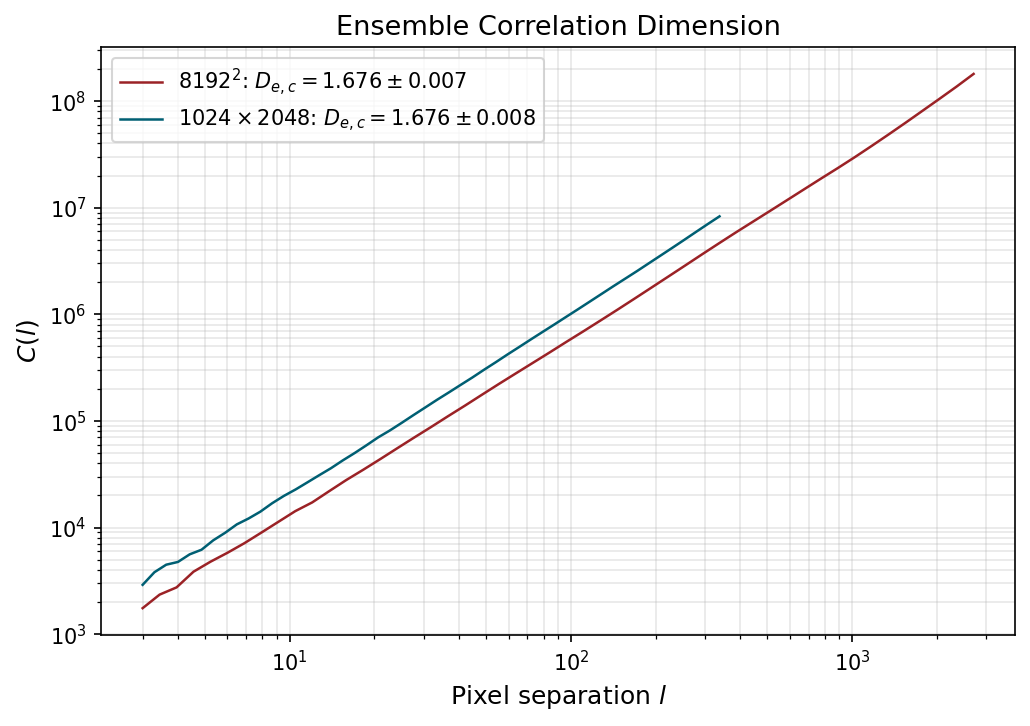
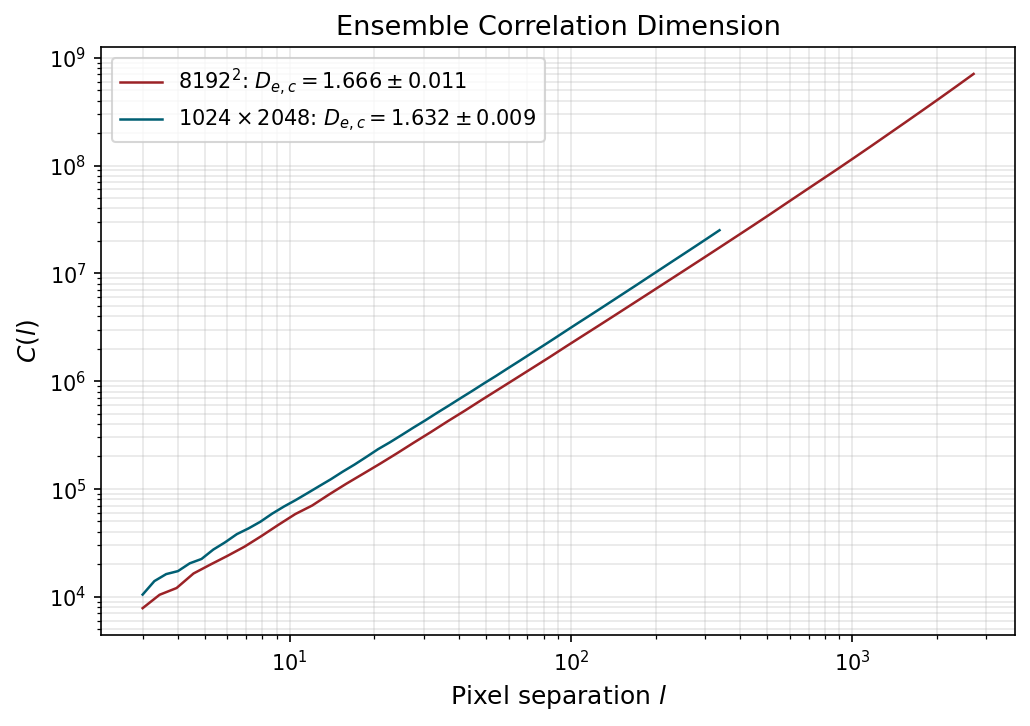
Switch to disk-persisted bool children, bump to 50 parents at C1=0.1
Reorganize the data pipeline so analysis reads bool child masks straight
from output/masks/ instead of rethresholding parents each run:

- scripts/produce_masks.py: new stage that thresholds each parent at its
  mean and writes the 4x8 grid of 1024x2048 bool children to disk (one
  parent held in memory at a time).
- analysis/load_masks.py: loads children from output/masks/, stitches
  parents on demand for the full-mask comparison branches.
- scripts/generate_fif.py: 30 -> 50 realizations, C1 0.05 -> 0.1.
- analysis/scaling_analysis.py: removed (continuous FIF power spectrum /
  structure function no longer of interest).
- README + figures refreshed for the new C1 and parent count; D_{e,c}
  estimates shift to 1.666 +/- 0.011 (full) and 1.632 +/- 0.009 (sub)
  as expected from the larger K(2) intermittency correction.

diff --git a/analysis/load_masks.py b/analysis/load_masks.py
@@ -1,27 +1,39 @@
 """
-Shared loader: reads the 30 FIF arrays from output/large/,
-thresholds at the mean to produce binary cloud masks,
-and optionally subsets into 4x8 MODIS-like scenes (1024x2048).
+Shared loader: reads bool child cloud masks from output/masks/ and
+exposes the original API used by the analysis scripts.
+
+Each child on disk is a 1024 x 2048 bool sub-scene. Full 8192^2 parent
+masks are reconstructed on demand by stitching each parent's 4 x 8 grid
+of children.
 """
 
 import numpy as np
 import os
 
-LARGE_DIR = os.path.join(os.path.dirname(__file__), "..", "output", "large")
-N_REALIZATIONS = 30
-N_ANALYSIS = 10  # number of parents to load for analysis
+MASKS_DIR = os.path.join(os.path.dirname(__file__), "..", "output", "masks")
+N_ANALYSIS = 50  # number of parents to load for analysis
+NROWS, NCOLS = 4, 8
 
 
 def load_large_masks(n=N_ANALYSIS):
-    """Load n full 8192^2 binary cloud masks (thresholded at mean)."""
+    """Load n full 8192^2 bool cloud masks (stitched from their children)."""
     masks = []
     for i in range(n):
-        arr = np.load(os.path.join(LARGE_DIR, f"fif_{i:03d}.npy"))
-        masks.append((arr > arr.mean()).astype(np.float64))
+        rows = [
+            np.concatenate(
+                [
+                    np.load(os.path.join(MASKS_DIR, f"child_{i:03d}_r{r}_c{c}.npy"))
+                    for c in range(NCOLS)
+                ],
+                axis=1,
+            )
+            for r in range(NROWS)
+        ]
+        masks.append(np.concatenate(rows, axis=0))
     return masks
 
 
-def subset_masks(mask, nrows=4, ncols=8):
+def subset_masks(mask, nrows=NROWS, ncols=NCOLS):
     """Split an 8192^2 mask into nrows x ncols sub-scenes (1024 x 2048)."""
     h, w = mask.shape
     sh, sw = h // nrows, w // ncols
@@ -33,8 +45,12 @@ def subset_masks(mask, nrows=4, ncols=8):
 
 
 def load_all_subscenes(n=N_ANALYSIS):
-    """Load n x 32 MODIS-like 1024x2048 sub-scenes."""
+    """Load all n x 32 MODIS-like 1024 x 2048 child sub-scenes directly."""
     scenes = []
-    for mask in load_large_masks(n):
-        scenes.extend(subset_masks(mask))
+    for i in range(n):
+        for r in range(NROWS):
+            for c in range(NCOLS):
+                scenes.append(
+                    np.load(os.path.join(MASKS_DIR, f"child_{i:03d}_r{r}_c{c}.npy"))
+                )
     return scenes

diff --git a/scripts/produce_masks.py b/scripts/produce_masks.py
@@ -1,0 +1,60 @@
+"""
+Produce bool child cloud masks from the large FIF simulations.
+
+For each parent fif_NNN.npy in output/large/:
+  - threshold at the parent's mean (cloudy where value > mean)
+  - split into 4 x 8 = 32 sub-scenes of shape 1024 x 2048
+  - save each sub-scene as a bool .npy in output/masks/
+
+One parent is held in memory at a time.
+"""
+
+import numpy as np
+import os
+import time
+
+LARGE_DIR = os.path.join(os.path.dirname(__file__), "..", "output", "large")
+MASKS_DIR = os.path.join(os.path.dirname(__file__), "..", "output", "masks")
+N_REALIZATIONS = 50
+NROWS, NCOLS = 4, 8
+
+os.makedirs(MASKS_DIR, exist_ok=True)
+
+print(f"Input:  {LARGE_DIR}")
+print(f"Output: {MASKS_DIR}")
+print(f"Grid:   {NROWS} x {NCOLS} children per parent\n")
+
+t_total = time.time()
+written = 0
+skipped = 0
+for i in range(N_REALIZATIONS):
+    infile = os.path.join(LARGE_DIR, f"fif_{i:03d}.npy")
+    if not os.path.exists(infile):
+        print(f"[{i+1:2d}/{N_REALIZATIONS}] {infile} missing, skipping.")
+        continue
+
+    t0 = time.time()
+    arr = np.load(infile)
+    mask = arr > arr.mean()
+    del arr
+
+    h, w = mask.shape
+    sh, sw = h // NROWS, w // NCOLS
+
+    for r in range(NROWS):
+        for c in range(NCOLS):
+            outfile = os.path.join(MASKS_DIR, f"child_{i:03d}_r{r}_c{c}.npy")
+            if os.path.exists(outfile):
+                skipped += 1
+                continue
+            np.save(outfile, mask[r * sh : (r + 1) * sh, c * sw : (c + 1) * sw])
+            written += 1
+
+    del mask
+    dt = time.time() - t0
+    print(f"[{i+1:2d}/{N_REALIZATIONS}] wrote {NROWS*NCOLS} children ({dt:.1f}s)")
+
+print(
+    f"\nDone. Wrote {written} files, skipped {skipped} existing. "
+    f"Total: {time.time() - t_total:.0f}s"
+)

diff --git a/scripts/generate_fif.py b/scripts/generate_fif.py
@@ -12,10 +12,10 @@ import os
 
 # ---------- Parameters ----------
 H = 0.25
-C1 = 0.05
+C1 = 0.1
 alpha = 1.8
 size = (16384, 16384)
-n_realizations = 30
+n_realizations = 50
 
 outdir = os.path.join(os.path.dirname(__file__), "..", "output", "large")
 os.makedirs(outdir, exist_ok=True)

diff --git a/README.md b/README.md
@@ -2,9 +2,11 @@
 
 This repo contains code to produce synthetic cloud masks using the FIF algorithm proposed by Lovejoy and Shertzer (2010), implemented via the Python package [`scaleinvariance`](https://github.com/thomasdewitt/scaleinvariance). 
 
-To construct cloud masks, I first simulate 30 $16384^2$ FIF simulations using Hurst exponent $H=0.25$, codimension of the mean $C_1=0.05$, and multifractal index $\alpha=1.8$. These values are close to those observed for reflectivity fields. Next, the simulation is subsampled by dropping every other point along both axes to obtain arrays of size $8192^2$. These arrays are saved in `output/large/` in `.npy` format. The subsampling step is necessary to reduce numerical error present at small scales in FIF simulations. The arrays of size $8192^2$ are made binary such that points with a value greater than the ensemble mean are set to cloudy and the rest to clear. Finally, the full-size cloud mask is divided into $4\times 8$ individual scenes, each representing a simulated MODIS cloud mask. Individual resulting cloud masks have shape $1024\times 2048$, which is close to individual MODIS granules which have shape $1354\times 2030$.
+To construct cloud masks, I first simulate 50 $16384^2$ FIF simulations using Hurst exponent $H=0.25$, codimension of the mean $C_1=0.1$, and multifractal index $\alpha=1.8$. These values are close to those observed for reflectivity fields. Next, the simulation is subsampled by dropping every other point along both axes to obtain arrays of size $8192^2$. These arrays are saved in `output/large/` in `.npy` format. The subsampling step is necessary to reduce numerical error present at small scales in FIF simulations. The arrays of size $8192^2$ are made binary such that points with a value greater than the ensemble mean are set to cloudy and the rest to clear. Finally, the full-size cloud mask is divided into $4\times 8$ individual scenes, each representing a simulated MODIS cloud mask. Individual resulting cloud masks have shape $1024\times 2048$, which is close to individual MODIS granules which have shape $1354\times 2030$.
 
 The approach of initially constructing a larger simulation, before dividing it into subscenes, ensures that variability is present at a larger scale than an individual scene as is realistic for MODIS images which have a footprint of approximately $2000\,\textrm{km}\times 2000\,\textrm{km}$. The large-scale variability present in the 8192$^2$ simulations is analogous to planetary- and synoptic- scale variability present in Earth's weather above $~2000\,\textrm{km}$.
+
+![Parent simulation and selected MODIS-like sub-scenes](figures/parent_children_example.png)
 
 For a 2D intermittent multifractal thresholded at its mean, the theoretical value for the ensemble fractal dimension is $D_e \approx 2-H = 1.75$ with intermittency corrections that depend on $C_1$ and the method used to compute the fractal dimension.
 
@@ -14,7 +16,7 @@ First, we compare the ensemble correlation dimension $D_{e,c}$ for the original 
 
 ![Ensemble correlation dimension](figures/ensemble_correlation_dimension.png)
 
-Estimates of $D_{e,c}$ are $1.676\pm 0.007$ for the full $8192^2$ masks and $1.676\pm 0.008$ for the $1024\times 2048$ sub-scenes.
+Estimates of $D_{e,c}$ are $1.666\pm 0.011$ for the full $8192^2$ masks and $1.632\pm 0.009$ for the $1024\times 2048$ sub-scenes.
 
 Size distributions of cloud areas and perimeters also produce relatively close values between the sub-scenes and the original:
 
